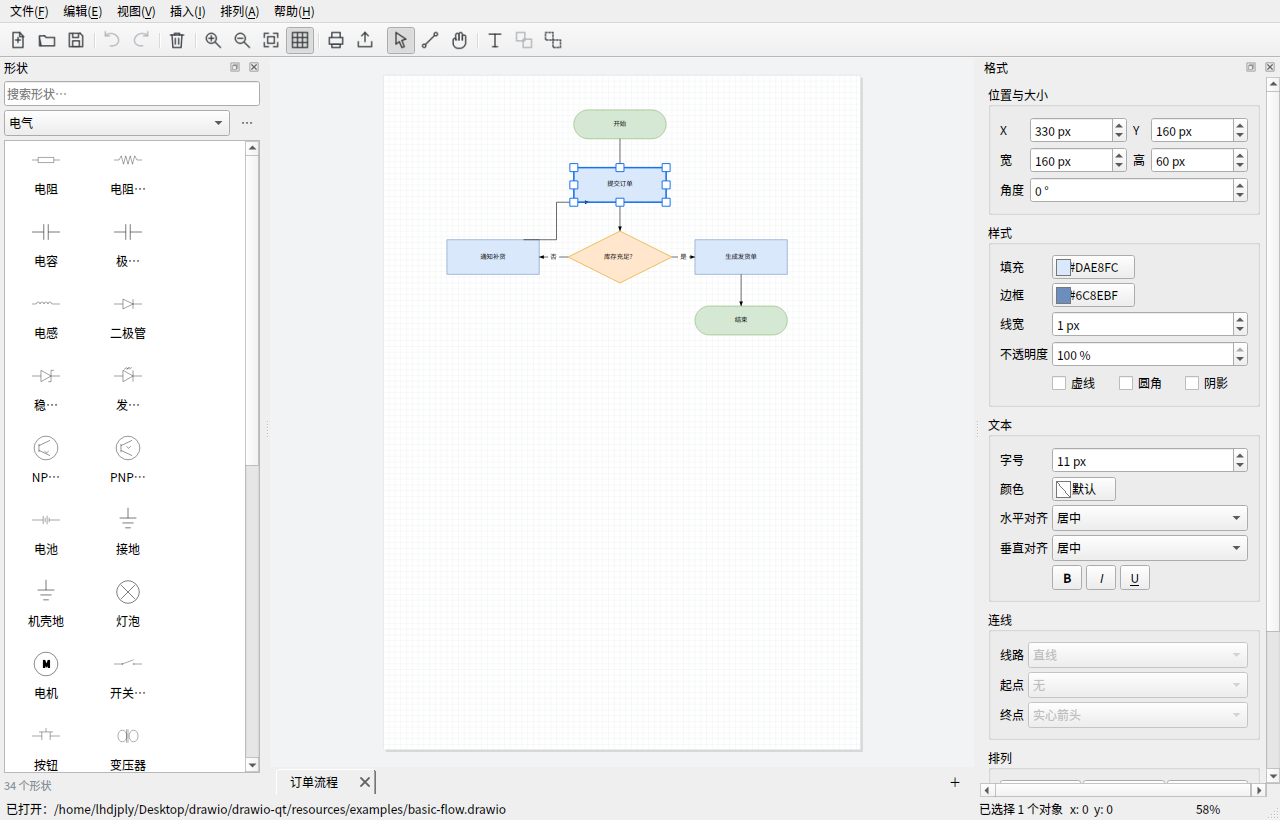
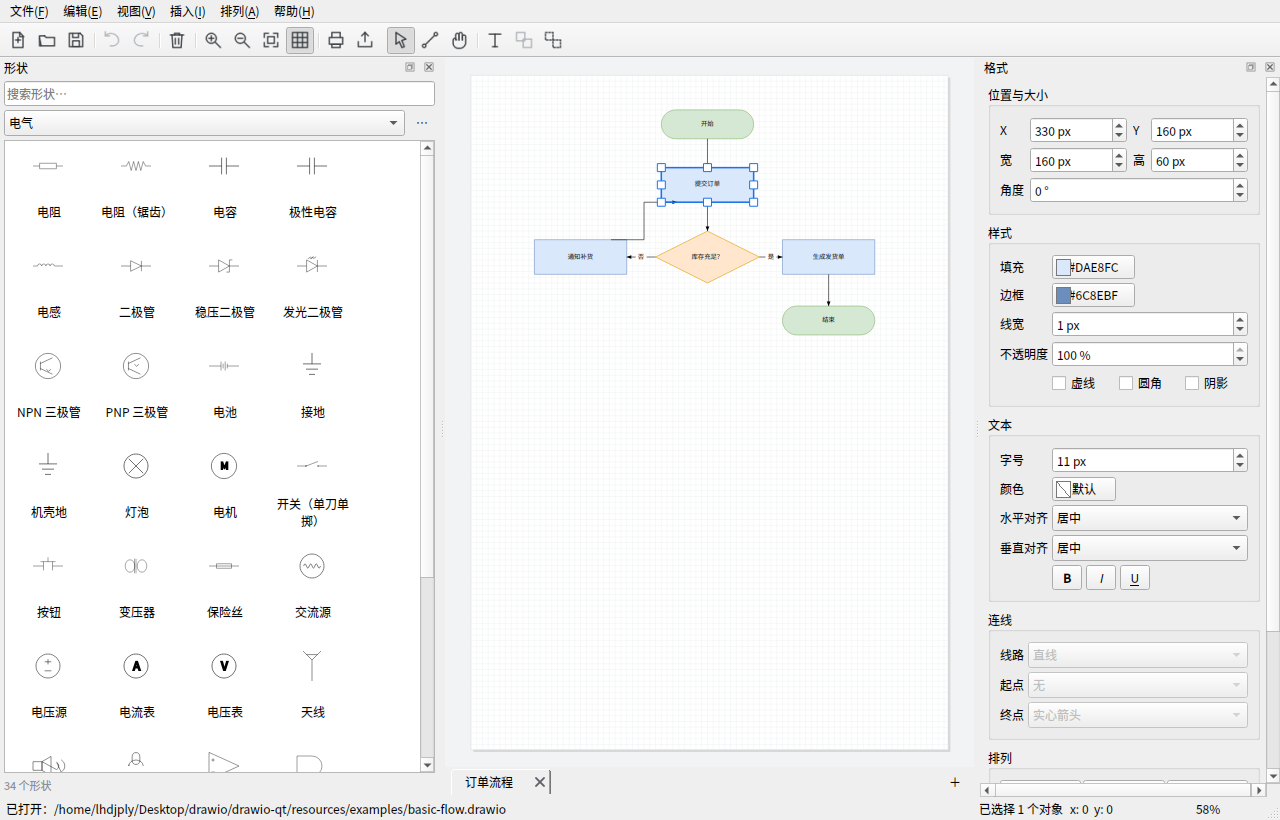
fix: 形状面板名称按两行显示，避免文字被截断
- 为形状列表实现自定义绘制代理：图标 + 最多两行居中文字
- 中文长名称按字符换行，英文优先按空格换行，超长部分用省略号
- 调整网格、图标与字号，使两行文字完整落在单元格内
- 名称完整文本继续通过 tooltip 提供

diff --git a/src/ui/ShapeToolbox.cpp b/src/ui/ShapeToolbox.cpp
@@ -9,11 +9,16 @@
 #include <QMouseEvent>
 #include <QFrame>
 #include <QHBoxLayout>
+#include <QApplication>
+#include <QFontMetrics>
 #include <QIcon>
 #include <QLabel>
 #include <QLineEdit>
 #include <QListWidget>
 #include <QMimeData>
+#include <QPainter>
+#include <QStyledItemDelegate>
+#include <QStyleOptionViewItem>
 #include <QTimer>
 #include <QToolButton>
 #include <QVBoxLayout>
@@ -22,6 +27,137 @@ namespace dq {
 namespace {
 
 constexpr const char *kShapeMimeType = "application/x-drawio-shape";
+
+
+QStringList wrapLabel(const QString &text, const QFontMetrics &metrics, int maxWidth,
+                       int maxLines)
+{
+    QStringList lines;
+    QString current;
+
+    for (int i = 0; i < text.size(); ++i)
+    {
+        const QChar character = text.at(i);
+        const QString candidate = current + character;
+
+        if (!current.isEmpty() && metrics.horizontalAdvance(candidate) > maxWidth)
+        {
+            const int lastSpace = current.lastIndexOf(QLatin1Char(' '));
+
+            if (lastSpace > 0 && !character.isSpace())
+            {
+                lines.append(current.left(lastSpace));
+                current = current.mid(lastSpace + 1) + character;
+            }
+            else
+            {
+                lines.append(current);
+                current = QString(character);
+            }
+
+            if (lines.size() == maxLines)
+            {
+                const int consumed = i - current.size() + 1;
+                lines.last() = metrics.elidedText(lines.last() + text.mid(consumed),
+                                                  Qt::ElideRight, maxWidth);
+                return lines;
+            }
+        }
+        else
+        {
+            current = candidate;
+        }
+    }
+
+    if (!current.isEmpty())
+    {
+        lines.append(current);
+    }
+
+    if (lines.size() > maxLines)
+    {
+        lines = lines.mid(0, maxLines);
+        lines.last() = metrics.elidedText(lines.last(), Qt::ElideRight, maxWidth);
+    }
+
+    return lines;
+}
+
+/// Draws the icon above a maximum of two centred text lines. Qt's icon mode
+/// delegate otherwise elides labels to a single line, which made longer shape
+/// names unreadable.
+class ShapeItemDelegate : public QStyledItemDelegate
+{
+public:
+    explicit ShapeItemDelegate(QObject *parent = nullptr)
+        : QStyledItemDelegate(parent)
+    {
+    }
+
+    QSize sizeHint(const QStyleOptionViewItem &option, const QModelIndex &index) const override
+    {
+        Q_UNUSED(option);
+        Q_UNUSED(index);
+        return QSize(88, 100);
+    }
+
+    void paint(QPainter *painter, const QStyleOptionViewItem &option,
+               const QModelIndex &index) const override
+    {
+        QStyleOptionViewItem opt(option);
+        initStyleOption(&opt, index);
+
+        const QWidget *widget = opt.widget;
+        QStyle *style = widget != nullptr ? widget->style() : QApplication::style();
+
+        // Background, selection and hover come from the current style.
+        opt.text.clear();
+        opt.icon = QIcon();
+        style->drawControl(QStyle::CE_ItemViewItem, &opt, painter, widget);
+
+        const QRect rect = opt.rect;
+        const QIcon icon = index.data(Qt::DecorationRole).value<QIcon>();
+        const int iconSide = qMin(38, rect.width() - 12);
+        const QRect iconRect(rect.center().x() - iconSide / 2, rect.top() + 6,
+                             iconSide, iconSide);
+
+        if (!icon.isNull())
+        {
+            icon.paint(painter, iconRect, Qt::AlignCenter,
+                       (option.state & QStyle::State_Enabled) ? QIcon::Normal
+                                                              : QIcon::Disabled);
+        }
+
+        QFont font = opt.font;
+        font.setPointSizeF(9.0);
+        const QFontMetrics metrics(font);
+        const int maxWidth = qMax(20, rect.width() - 8);
+        const QStringList lines = wrapLabel(index.data(Qt::DisplayRole).toString(),
+                                            metrics, maxWidth, 2);
+
+        const int lineHeight = metrics.height();
+        const int textHeight = lineHeight * lines.size();
+        const int blockHeight = iconSide + 4 + textHeight;
+        int top = rect.top() + qMax(2, (rect.height() - blockHeight) / 2);
+
+        painter->save();
+        painter->setFont(font);
+        painter->setPen(opt.palette.color((option.state & QStyle::State_Selected)
+                                              ? QPalette::HighlightedText
+                                              : QPalette::Text));
+
+        int y = top + iconSide + 4;
+
+        for (const QString &line : lines)
+        {
+            painter->drawText(QRect(rect.left(), y, rect.width(), lineHeight),
+                              Qt::AlignHCenter | Qt::AlignTop, line);
+            y += lineHeight;
+        }
+
+        painter->restore();
+    }
+};
 
 /// Adds the shape key to the drag payload so DiagramView can rebuild the
 /// definition on drop.
@@ -40,10 +176,11 @@ public:
         setViewMode(QListView::IconMode);
         setResizeMode(QListView::Adjust);
         setMovement(QListView::Static);
-        setIconSize(QSize(36, 36));
-        setGridSize(QSize(82, 72));
+        setIconSize(QSize(38, 38));
+        setGridSize(QSize(88, 100));
         setSpacing(2);
         setWordWrap(true);
+        setTextElideMode(Qt::ElideNone);
         setUniformItemSizes(true);
     }
 
@@ -140,6 +277,7 @@ ShapeToolbox::ShapeToolbox(QWidget *parent)
     layout->addLayout(categoryRow);
 
     m_list = new ShapeList(this);
+    m_list->setItemDelegate(new ShapeItemDelegate(m_list));
     layout->addWidget(m_list, 1);
 
     m_count = new QLabel(this);
@@ -272,6 +410,10 @@ void ShapeToolbox::populateList()
 
     m_list->clear();
 
+    QFont listFont = m_list->font();
+    listFont.setPointSizeF(9.0);
+    m_list->setFont(listFont);
+
     for (const ShapeDefinition &definition : shapes)
     {
         auto *item = new QListWidgetItem(m_list);
@@ -279,7 +421,7 @@ void ShapeToolbox::populateList()
         item->setData(Qt::UserRole, definition.key);
         item->setToolTip(QStringLiteral("%1\n%2").arg(definition.name, definition.style));
         item->setTextAlignment(Qt::AlignHCenter | Qt::AlignTop);
-        item->setIcon(ShapeCatalog::instance().iconFor(definition, 36));
+        item->setIcon(ShapeCatalog::instance().iconFor(definition, 38));
     }
 
     m_count->setText(query.isEmpty()
